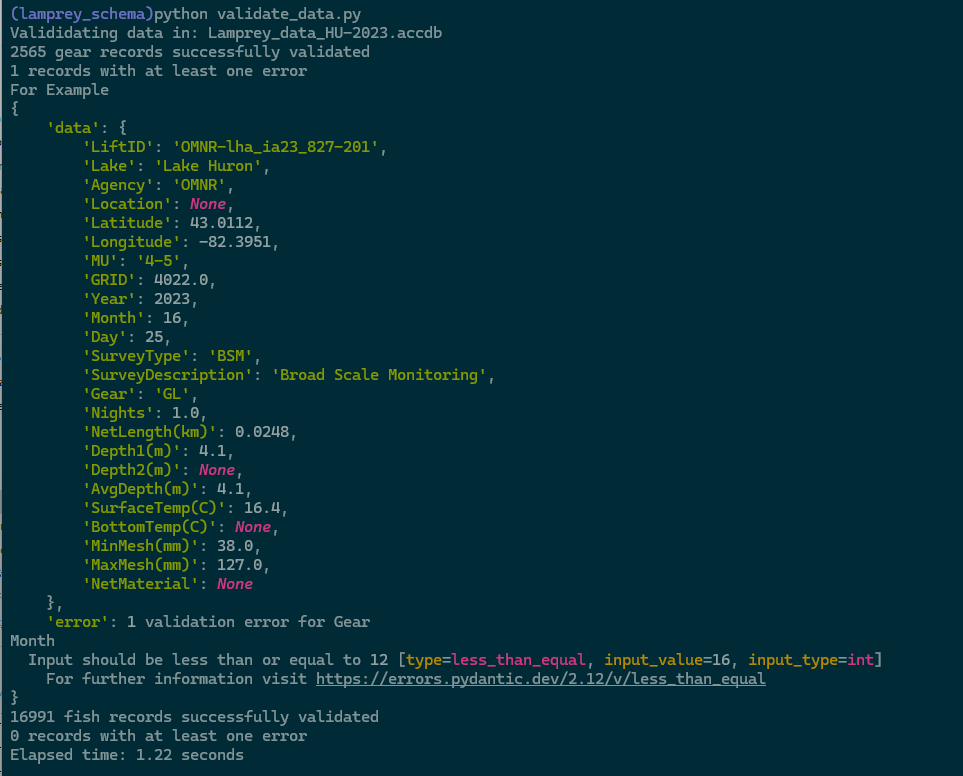
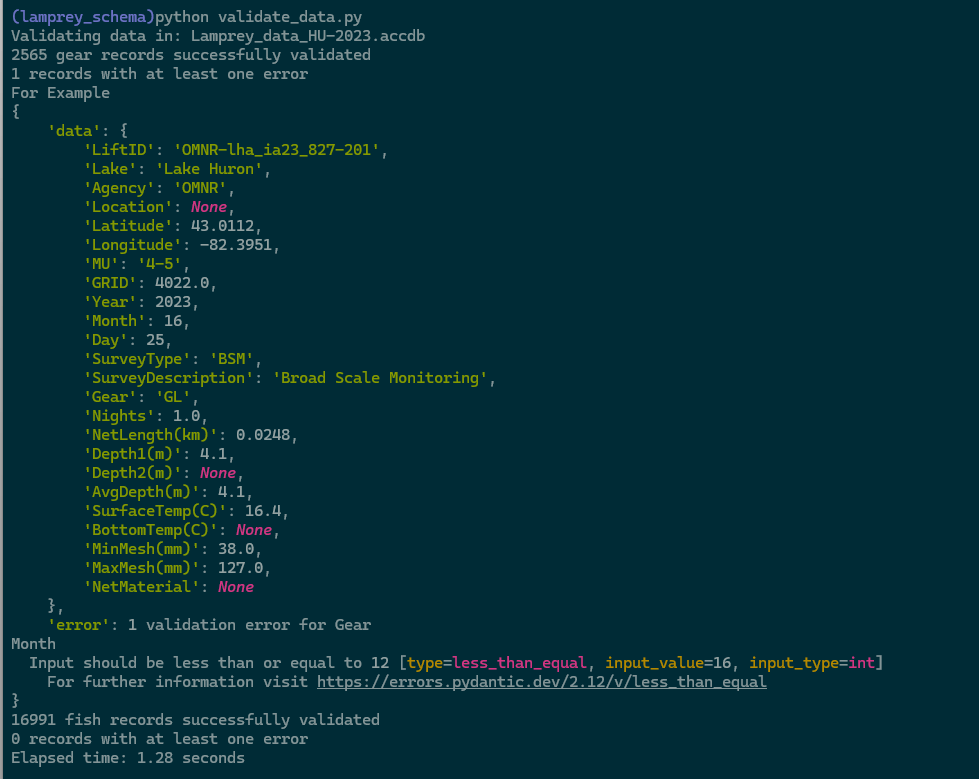
Fixed typo in one of the messages. Updated screen shots too.

diff --git a/validate_data.py b/validate_data.py
@@ -24,7 +24,7 @@ gear_raw = get_gear_accdb(SRC_DB)
 gear = validate(gear_raw, Gear)
 
 
-print(f"Valididating data in: {p.name}")
+print(f"Validating data in: {p.name}")
 
 gear_raw = get_gear_accdb(SRC_DB)
 gear = validate(gear_raw, Gear)
